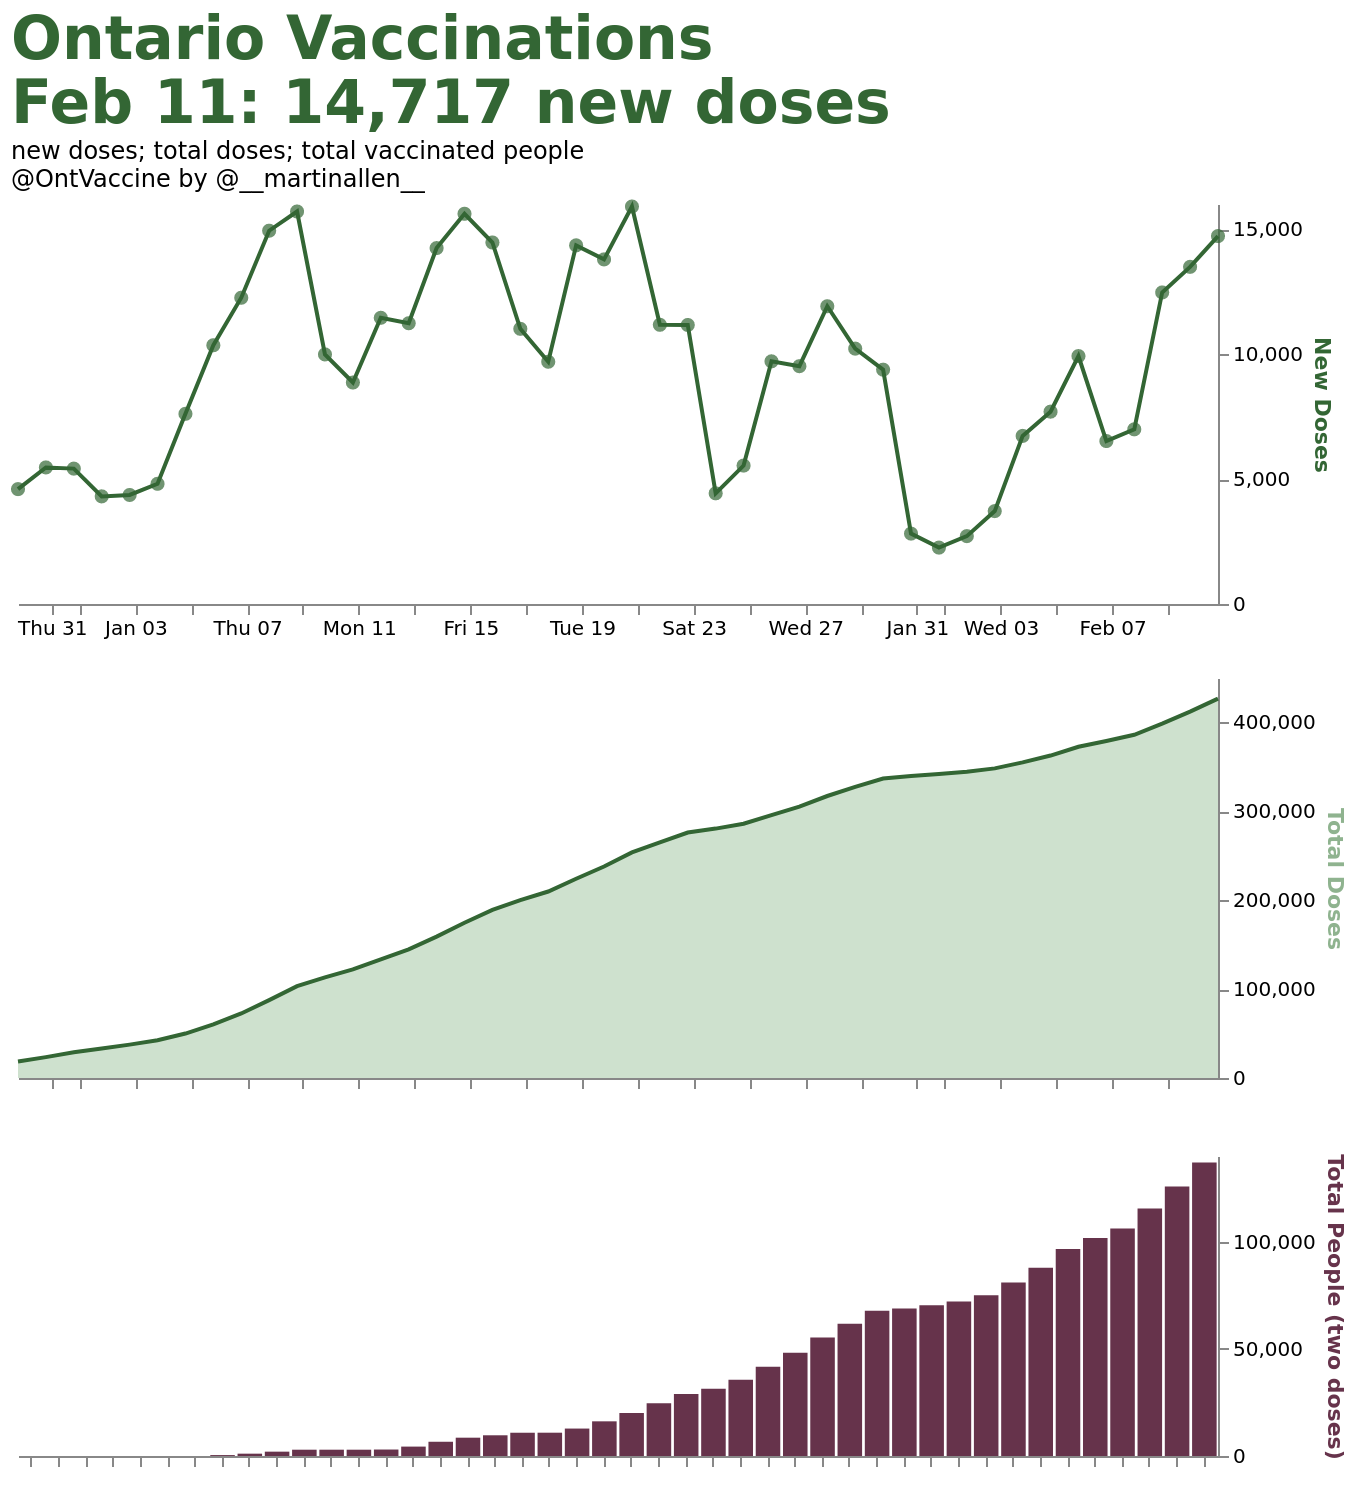
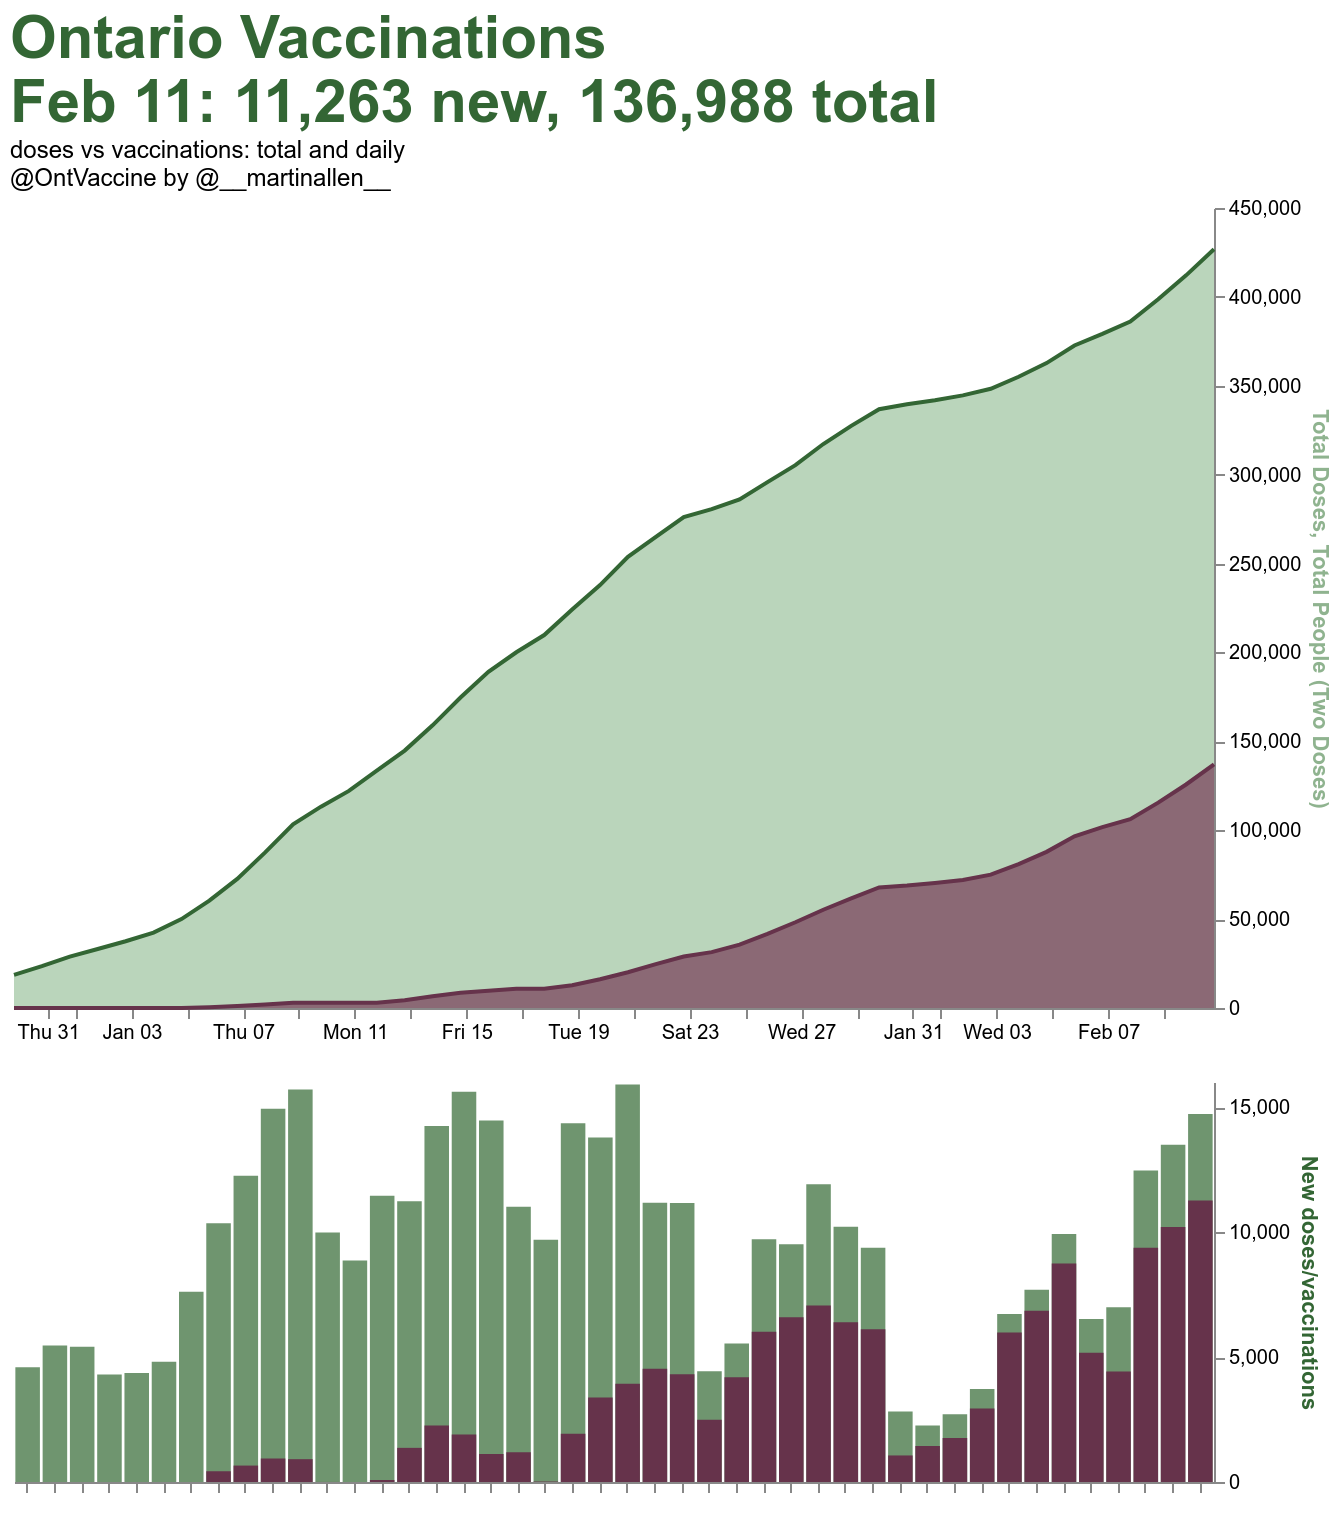
Remade vacc thumbnails

diff --git a/vacc_thumb_v2.py b/vacc_thumb_v2.py
@@ -6,119 +6,143 @@ def rows(df):
     today = pd.to_datetime(df.iloc[-1].date).strftime('%b %d')    
     print(f'Making rows for {today}...')
     
-    # new dots/line
-    new_dots = alt.Chart(df).mark_circle(
-        color = '#336634',
-        size = 50
-    ).encode(
-        alt.X('date:T',
-             axis = alt.Axis(title=None)),
-        alt.Y('new:Q',
-            axis = alt.Axis(
-                title='New Doses',
-                titleColor = '#336634',
-                orient = 'right'
-                ))
-    )
-    new_line = alt.Chart(df).mark_line(
-        color = '#336634'
-    ).encode(
-        alt.X('date:T',
-             axis = alt.Axis(title=None)),
-        alt.Y('new:Q',
-             axis = alt.Axis(
-                 orient = 'right'
-             ))
-    )
-    new = alt.layer(
-        new_line, new_dots
-    ).properties(
-        width = 600,
-        height = 200
-    )
-    
     # total area chart
     total = alt.Chart(df).mark_area(
         line = {'color': '#336634'},
-        color = '#9DC49E',
-        opacity = 0.5
+        color = '#9DC49E'
     ).encode(
         alt.X('date:T',
              axis = alt.Axis(
                  title=None,
-                 labelOpacity = 0
+                 labelOpacity = 1
              )),
         alt.Y('total:Q',
             axis = alt.Axis(
                 title='Total Doses',
                 titleColor = '#8FB38F',
-                orient = 'right'
+                orient = 'right',
+                grid=False
                 ))
     ).properties(
         width = 600,
-        height = 200
+        height = 400
     )
     
-    # vaccinations bar chart
-    vaccd = alt.Chart(df).mark_bar(
-        color = '#66334B'
+    # vaccination bars
+    vaccd = alt.Chart(df).mark_area(
+        line = {'color': '#66334B'},
+        color = '#783C58'
     ).encode(
-        alt.X('date:O',
+        alt.X('date:T',
               axis = alt.Axis(
                   labelOpacity = 0,
-                  labelFontSize = 1,
                   title = None,
                   grid = False
                 )
         ),
         alt.Y('vaccinated:Q', 
               axis = alt.Axis(
-                  title = 'Total People (two doses)',
+                  title = 'Total People (Two Doses)',
                   titleColor = '#66334B',
                   orient = 'right'
                 ))
     ).properties(
         width = 600,
-        height = 150,
+        height = 400,
     )
     
-    return new, total, vaccd
+    main = alt.layer(
+        total, vaccd
+    ).properties(
+        width = 600,
+        height = 400
+    )
+    
+    new_doses = alt.Chart(df).mark_bar(
+        color = '#6F956F'
+    ).encode(
+        alt.X('date:O',
+             axis = alt.Axis(
+                 title=None,
+                 grid=False,
+                 labelOpacity=0
+             )),
+        alt.Y('new:Q',
+             axis = alt.Axis(
+                 titleColor = '#336634',
+                 orient = 'right',
+                 grid=False
+             ))
+    ).properties(
+        width = 600,
+        height = 200
+    )
+    
+    new_vaccs = alt.Chart(df).mark_bar(
+        color = '#66334B'
+    ).encode(
+        alt.X('date:O',
+             axis = alt.Axis(
+                 title=None,
+                 grid=False,
+                 labelOpacity=0,
+                 labelFontSize = 1
+             )),
+        alt.Y('new_vaccinated:Q',
+             axis = alt.Axis(
+                 title = 'New doses/vaccinations',
+                 titleColor = '#336634',
+                 orient = 'right',
+                 grid=False
+             ))
+    ).properties(
+        width = 600,
+        height = 200
+    )
+    
+    new = alt.layer(
+        new_doses, new_vaccs
+    ).properties(
+        width = 600,
+        height = 200
+    )
+    
+    return main, new
 
-def plot(df, new, total, vaccd):
+def plot(df, main, new):
     
     print('Combining into thumbnail...')
     today = pd.to_datetime(df.iloc[-1].date).strftime('%b %d')
-    doses = int(df.iloc[-1].new)
+    nv = int(df.iloc[-1].new_vaccinated)
+    v = int(df.iloc[-1].vaccinated)
     
     thumb = alt.VConcatChart(
-        vconcat = [new, total, vaccd]
+        vconcat = [main, new]
     ).configure_view(
         strokeWidth = 0
-    ).configure_axis(
-        grid = False
     ).properties(
-            title = {
-                'text': [
-                    'Ontario Vaccinations',
-                    f'{today}: {doses:,d} new doses'
-                ],
-                'subtitle': [
-                    'new doses; total doses; total vaccinated people',
-                    '@OntVaccine by @__martinallen__'
-                ]
-            }
-    ).configure_title(
-            fontSize = 30,
-            color = '#336634'
-    )
+                title = {
+                    'text': [
+                        'Ontario Vaccinations',
+                        f'{today}: {nv:,d} new, {v:,d} total'
+                    ],
+                    'subtitle': [
+                        'doses vs vaccinations: total and daily',
+                        '@OntVaccine by @__martinallen__'
+                    ]
+                }
+        ).configure_title(
+                fontSize = 30,
+                color = '#336634'
+        )
     
     return thumb
     
 def make_chart():
     df = pd.read_csv('./data/output/vaccine.csv')
     
-    new, total, vaccd = rows(df)
-    thumb = plot(df, new, total, vaccd)
+    main, new = rows(df)
+    thumb = plot(df, main, new)
     
     thumb.save('./data/viz/vacc_chart.png', scale_factor=2.0)
     print('Thumbnail saved to ./data/viz/vacc_chart.png!')    

diff --git a/vaccine.py b/vaccine.py
@@ -38,7 +38,11 @@ def get_data():
     df.new = commas('new')
     df.total = commas('total')
     df.vaccinated = commas('vaccinated')
-    df.vaccinated = df.vaccinated.replace(np.nan, 0)
+    df.vaccinated = df.vaccinated.replace(np.nan, 0).astype(int)
+    
+    # new vaccinations col
+    df['new_vaccinated'] = df.vaccinated.diff()
+    df.new_vaccinated = df.new_vaccinated.replace(np.nan, 0)
     
     filename = './data/output/vaccine.csv'
     df.to_csv(filename)
@@ -49,4 +53,4 @@ def get_data():
 if __name__ == "__main__":
     get_data()
     make_chart()
-    send_tweet() 
+    # send_tweet() 
